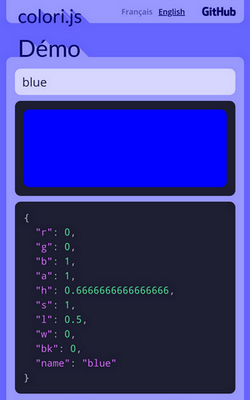
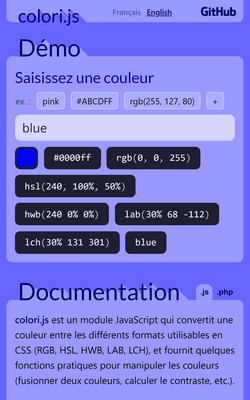
Update colori "pourquoi du comment"

diff --git a/projets/colori/etude-fr.htm b/projets/colori/etude-fr.htm
@@ -1,27 +1,48 @@
-<p>En m'intéressant à l'utilisation de couleurs vives pour réaliser l'interface de mes différents projets (comme ce portfolio, ou Solaire), je me suis rendu compte que chacun des formats dans lesquels les couleurs peuvent être exprimées en CSS a ses intérêts et ses inconvénients. Afin d'expliquer cela, je vais parler de l'interface de la page de démonstration de colori.js.</p>
+<p>Dans plusieurs projets présentés sur ce portfolio, j'ai fait en sorte sur l'interface s'adapte à la couleur de certains éléments. C'est le cas du portfolio lui-même, où chaque projet est associé à une couleur, et cliquer sur un projet ouvre une fenêtre de cette couleur-là. C'est aussi le cas de Solaire, où l'application s'adapte à la couleur de l'étoile.</p>
 
-<p>Colori étant un projet dont le but est la manipulation des couleurs, il m'a semblé intéressant de réaliser une interface qui puisse se colorer dans n'importe quelle teinte. En arrivant sur la page de démonstration de Colori, une couleur est choisie aléatoirement et utilisée pour générer l'interface. Ensuite, chaque couleur entrée dans le champ prévu à cet effet change la couleur de la page (essayez 'red', 'green' et 'blue' par exemple).</p>
+<p>En développant ces projets et en jouant avec les couleurs, j'ai eu envie d'utiliser un outil qui me permettrait de convertir une couleur, à la volée, d'un format à un autre (par format, j'entends un format supporté par CSS, comme RGB - pour rouge / vert / bleu - ou HSL - pour teinte / saturation / luminosité). Je me suis dit qu'il serait intéressant de développer cet outil moi-même ; c'est ainsi qu'est né Colori.</p>
+
+<p>Colori est disponible en tant que module JavaScript ou PHP, sans dépendance, que j'espère avoir rendu suffisamment simple pour pouvoir être utilisé même par un développeur débutant. Pour en démontrer les capacités, j'ai développé une interface qui utilise Colori pour faire fonctionner un convertisseur de couleurs.</p>
 
 <figure>
-  <div style="--largeur-max: 20rem; --w: 250; --h: 400;"><img src="/mon-portfolio/projets/colori/images/teinte-red.png" width="250" height="400" alt="" loading="lazy"></div>
-  <div style="--largeur-max: 20rem; --w: 250; --h: 400;"><img src="/mon-portfolio/projets/colori/images/teinte-green.png" width="250" height="400" alt="" loading="lazy"></div>
-  <div style="--largeur-max: 20rem; --w: 250; --h: 400;"><img src="/mon-portfolio/projets/colori/images/teinte-blue.png" widt="250" height="400" alt="" loading="lazy"></div>
-  <figcaption>L'interface en rouge, vert et bleu - 3 teintes parmi les 360 possibles !</figcaption>
+  <media-projet type="image" width="250" height="400" phone="true" src="/mon-portfolio/projets/colori/images/teinte-red.png"></media-projet>
+  <media-projet type="image" width="250" height="400" phone="true" src="/mon-portfolio/projets/colori/images/teinte-green.png"></media-projet>
+  <media-projet type="image" width="250" height="400" phone="true" src="/mon-portfolio/projets/colori/images/teinte-blue.png"></media-projet>
+  <figcaption>L'interface s'adapte à la couleur entrée dans le convertisseur</figcaption>
 </figure>
 
-<p>Ma première approche a été d'exprimer toutes les couleurs de l'interface au format HSL (teinte, saturation, luminosité). En fixant la luminosité et la saturation pour chaque élément, il me suffisait alors de changer la teinte pour recolorer toute la page. Problème : à saturation et luminosité égales, différentes teintes produisent des couleurs qui paraissent plus ou moins vives, et qui ont plus ou moins de contraste avec le texte affiché par-dessus. Varier la teinte seule n'allait donc pas suffire. Mais adapter manuellement saturation et luminosité pour chacune des teintes possibles prendrait beaucoup trop de temps. À l'inverse, restreindre la quantité de teintes possibles pour l'interface ne m'intéressait pas : je voulais vraiment qu'elle puisse s'adapter à n'importe quelle couleur choisie.</p>
+<p>J'ai aussi rédigé la documentation de Colori, en français et en anglais, pour lister et expliquer les fonctions du module.</p>
 
-<p>Le format HWB (teinte, blancheur, noirceur) m'a paru plus intuitif pour régler ce problème de contraste. Mais là, autre problème : le format HWB n'est pas naturellement reconnu par les navigateurs web pour l'instant. Si je voulais manipuler les couleurs au format HWB, il allait falloir que je les convertisse vers le format HSL ensuite.</p>
+<figure>
+  <media-projet type="image" width="800" height="517" src="/mon-portfolio/projets/colori/images/documentation-pc.png"></media-projet>
+  <figcaption>La documentation, accompagnée par son menu flottant de navigation rapide sur les écrans larges</figcaption>
+</figure>
 
-<p>Ce genre de questionnement m'a poussé à intégrer diverses fonctions à Colori : convertir une couleur entre ses différents formats (RGB, HSL, HWB), calculer le contraste entre deux couleurs, fusionner deux couleurs, ou encore éditer des propriétés d'une couleur en recalculant dynamiquement les autres. L'API rendant tout ceci possible est expliquée sur la page de démonstration.</p>
+<p>Cette documentation renseigne sur toutes les fonctions intégrées à Colori. Par exemple, la fonction darken permet d'assombrir une couleur ; son opposé lighten permet de l'éclaircir. Par ailleurs, la fonction invert permet d'obtenir le négatif d'une couleur ; la fonction blend permet de fusionner deux couleurs, c'est-à-dire de déterminer quelle couleur on observerait si on superposait une couleur semi-transparente par-dessus une autre couleur. Plusieurs autres fonctions sont disponibles, je vous invite à consulter la documentation pour les voir toutes.</p>
 
 <div class="separator"></div>
 
-<p>Voici un exemple de l'adaptation automatique des couleurs de l'interface pour éviter des problèmes de contraste : lorsque la couleur affichée en aperçu devient trop proche de la couleur de fond, le fond s'éclaircit pour maintenir un contraste suffisant.</p>
+<p>Pour adapter l'interface à la couleur entrée, changer simplement la couleur des différents éléments ne suffit pas. En effet, quand la couleur de deux éléments change, le contraste entre eux change aussi, même si l'écart de luminosité reste le même.</p>
 
 <figure>
-  <div style="--w: 400; --h: 291;"><img src="/mon-portfolio/projets/colori/images/fond-normal.png" width="400" height="291" alt="" loading="lazy"></div>
-  <div style="--w: 400; --h: 291;"><img src="/mon-portfolio/projets/colori/images/fond-adapte.png" width="400" height="291" alt="" loading="lazy"></div>
+  <media-projet type="image" width="400" height="370" src="/mon-portfolio/projets/colori/images/bad-contraste-1.png"></media-projet>
+  <media-projet type="image" width="400" height="370" src="/mon-portfolio/projets/colori/images/bad-contraste-2.png"></media-projet>
+  <figcaption>Le contraste ne permet pas de dinstinguer confortablement le fond de la page et la section sur la deuxième image, alors que les saturations et luminosités sont identiques dans les deux images</figcaption>
+</figure>
+
+<p>J'ai ajouté à Colori une fonction qui calcule le contraste entre deux couleurs. Je peux ainsi adapter en temps réel l'interface afin que le contraste entre les éléments soit toujours suffisant.</p>
+
+<figure>
+  <media-projet type="image" width="400" height="370" src="/mon-portfolio/projets/colori/images/good-contraste-1.png"></media-projet>
+  <media-projet type="image" width="400" height="370" src="/mon-portfolio/projets/colori/images/good-contraste-2.png"></media-projet>
+  <figcaption>La distinction est plus facile, et les textes sont plus lisibles</figcaption>
+</figure>
+
+<p>Voici un autre exemple de l'adaptation automatique des couleurs de l'interface pour éviter des problèmes de contraste : lorsque la couleur affichée en aperçu devient trop proche de la couleur de fond, le fond s'éclaircit pour maintenir un contraste suffisant.</p>
+
+<figure>
+  <media-projet type="image" width="400" height="291" src="/mon-portfolio/projets/colori/images/fond-normal.png"></media-projet>
+  <media-projet type="image" width="400" height="291" src="/mon-portfolio/projets/colori/images/fond-adapte.png"></media-projet>
   <figcaption>Le bleu de la deuxième image est plus foncé et se fondrait légèrement dans la couleur de fond, si celle-ci ne s'était pas éclaircie</figcaption>
 </figure>
 
@@ -31,17 +52,40 @@
 
 <div class="separator"></div>
 
+<p>Regardons plus en détail la partie "Démo" de l'interface de présentation de Colori. Il s'agit d'un convertisseur de couleurs : l'utilisateur entre une couleur dans un format supporté par CSS (par exemple "red" ou "#FF0000"), et le convertisseur affiche cette couleur dans tous les autres formats.</p>
+
+<figure>
+  <media-projet type="image" width="500" height="310" src="/mon-portfolio/projets/colori/images/resultats-rouge.png"></media-projet>
+  <figcaption>Toutes ces valeurs représentent la couleur rouge dans différents formats</figcaption>
+</figure>
+
+<p>Les fonctions de modification de couleur (comme darken, lighten, invert et blend mentionnées plus tôt) peuvent aussi être testées via ce convertisseur. Il suffit de les saisir, dans une syntaxe proche de celle de JavaScript, pour observer le résultat.</p>
+
+<figure>
+  <media-projet type="image" width="500" height="310" src="/mon-portfolio/projets/colori/images/resultats-darken.png"></media-projet>
+  <figcaption>La couleur rouge assombrie de 50% est affichée</figcaption>
+</figure>
+
+<p>J'ai fait en sorte que les fonctions puissent être enchaînées, permettant de calculer des couleurs complexes via ce convertisseur.</p>
+
+<figure>
+  <media-projet type="image" width="500" height="514" src="/mon-portfolio/projets/colori/images/blend-en-chaine.png"></media-projet>
+  <figcaption>Voici le résultat de la superposition de blanc, assombri de 80% et transparent à 80%, par-dessus du rouge transparent à 50%, lui-même par-dessus du bleu</figcaption>
+</figure>
+
+<div class="separator"></div>
+
 <p>Remarquez l'alignement des titres avec leur section, et l'ombre allongée qu'ils projettent.</p>
 
 <figure>
-  <div style="--w: 759; --h: 247;"><img src="/mon-portfolio/projets/colori/images/alignement-titre.png" width="759" height="247" alt="" loading="lazy"></div>
+  <media-projet type="image" width="759" height="247" src="/mon-portfolio/projets/colori/images/alignement-titre.png"></media-projet>
   <figcaption>Le titre "Documentation" est précisément aligné avec le haut de sa section</figcaption>
 </figure>
 
 <p>Cet effet visuel particulier, qui est obtenu suite à une mesure précise de la police utilisée, est une idée que je souhaite implémenter depuis longtemps. Un effet semblable se trouvait déjà sur un prototype de portfolio développé il y a quelques années.</p>
 
 <figure>
-  <div style="--w: 493; --h: 609;"><img src="/mon-portfolio/projets/colori/images/prototype-portfolio.png" width="493" height="609" alt="" loading="lazy"></div>
+  <media-projet type="image" width="493" height="609" src="/mon-portfolio/projets/colori/images/prototype-portfolio.png"></media-projet>
   <figcaption>Une première idée de design pour mon portfolio utilisait un effet similaire</figcaption>
 </figure>
 
